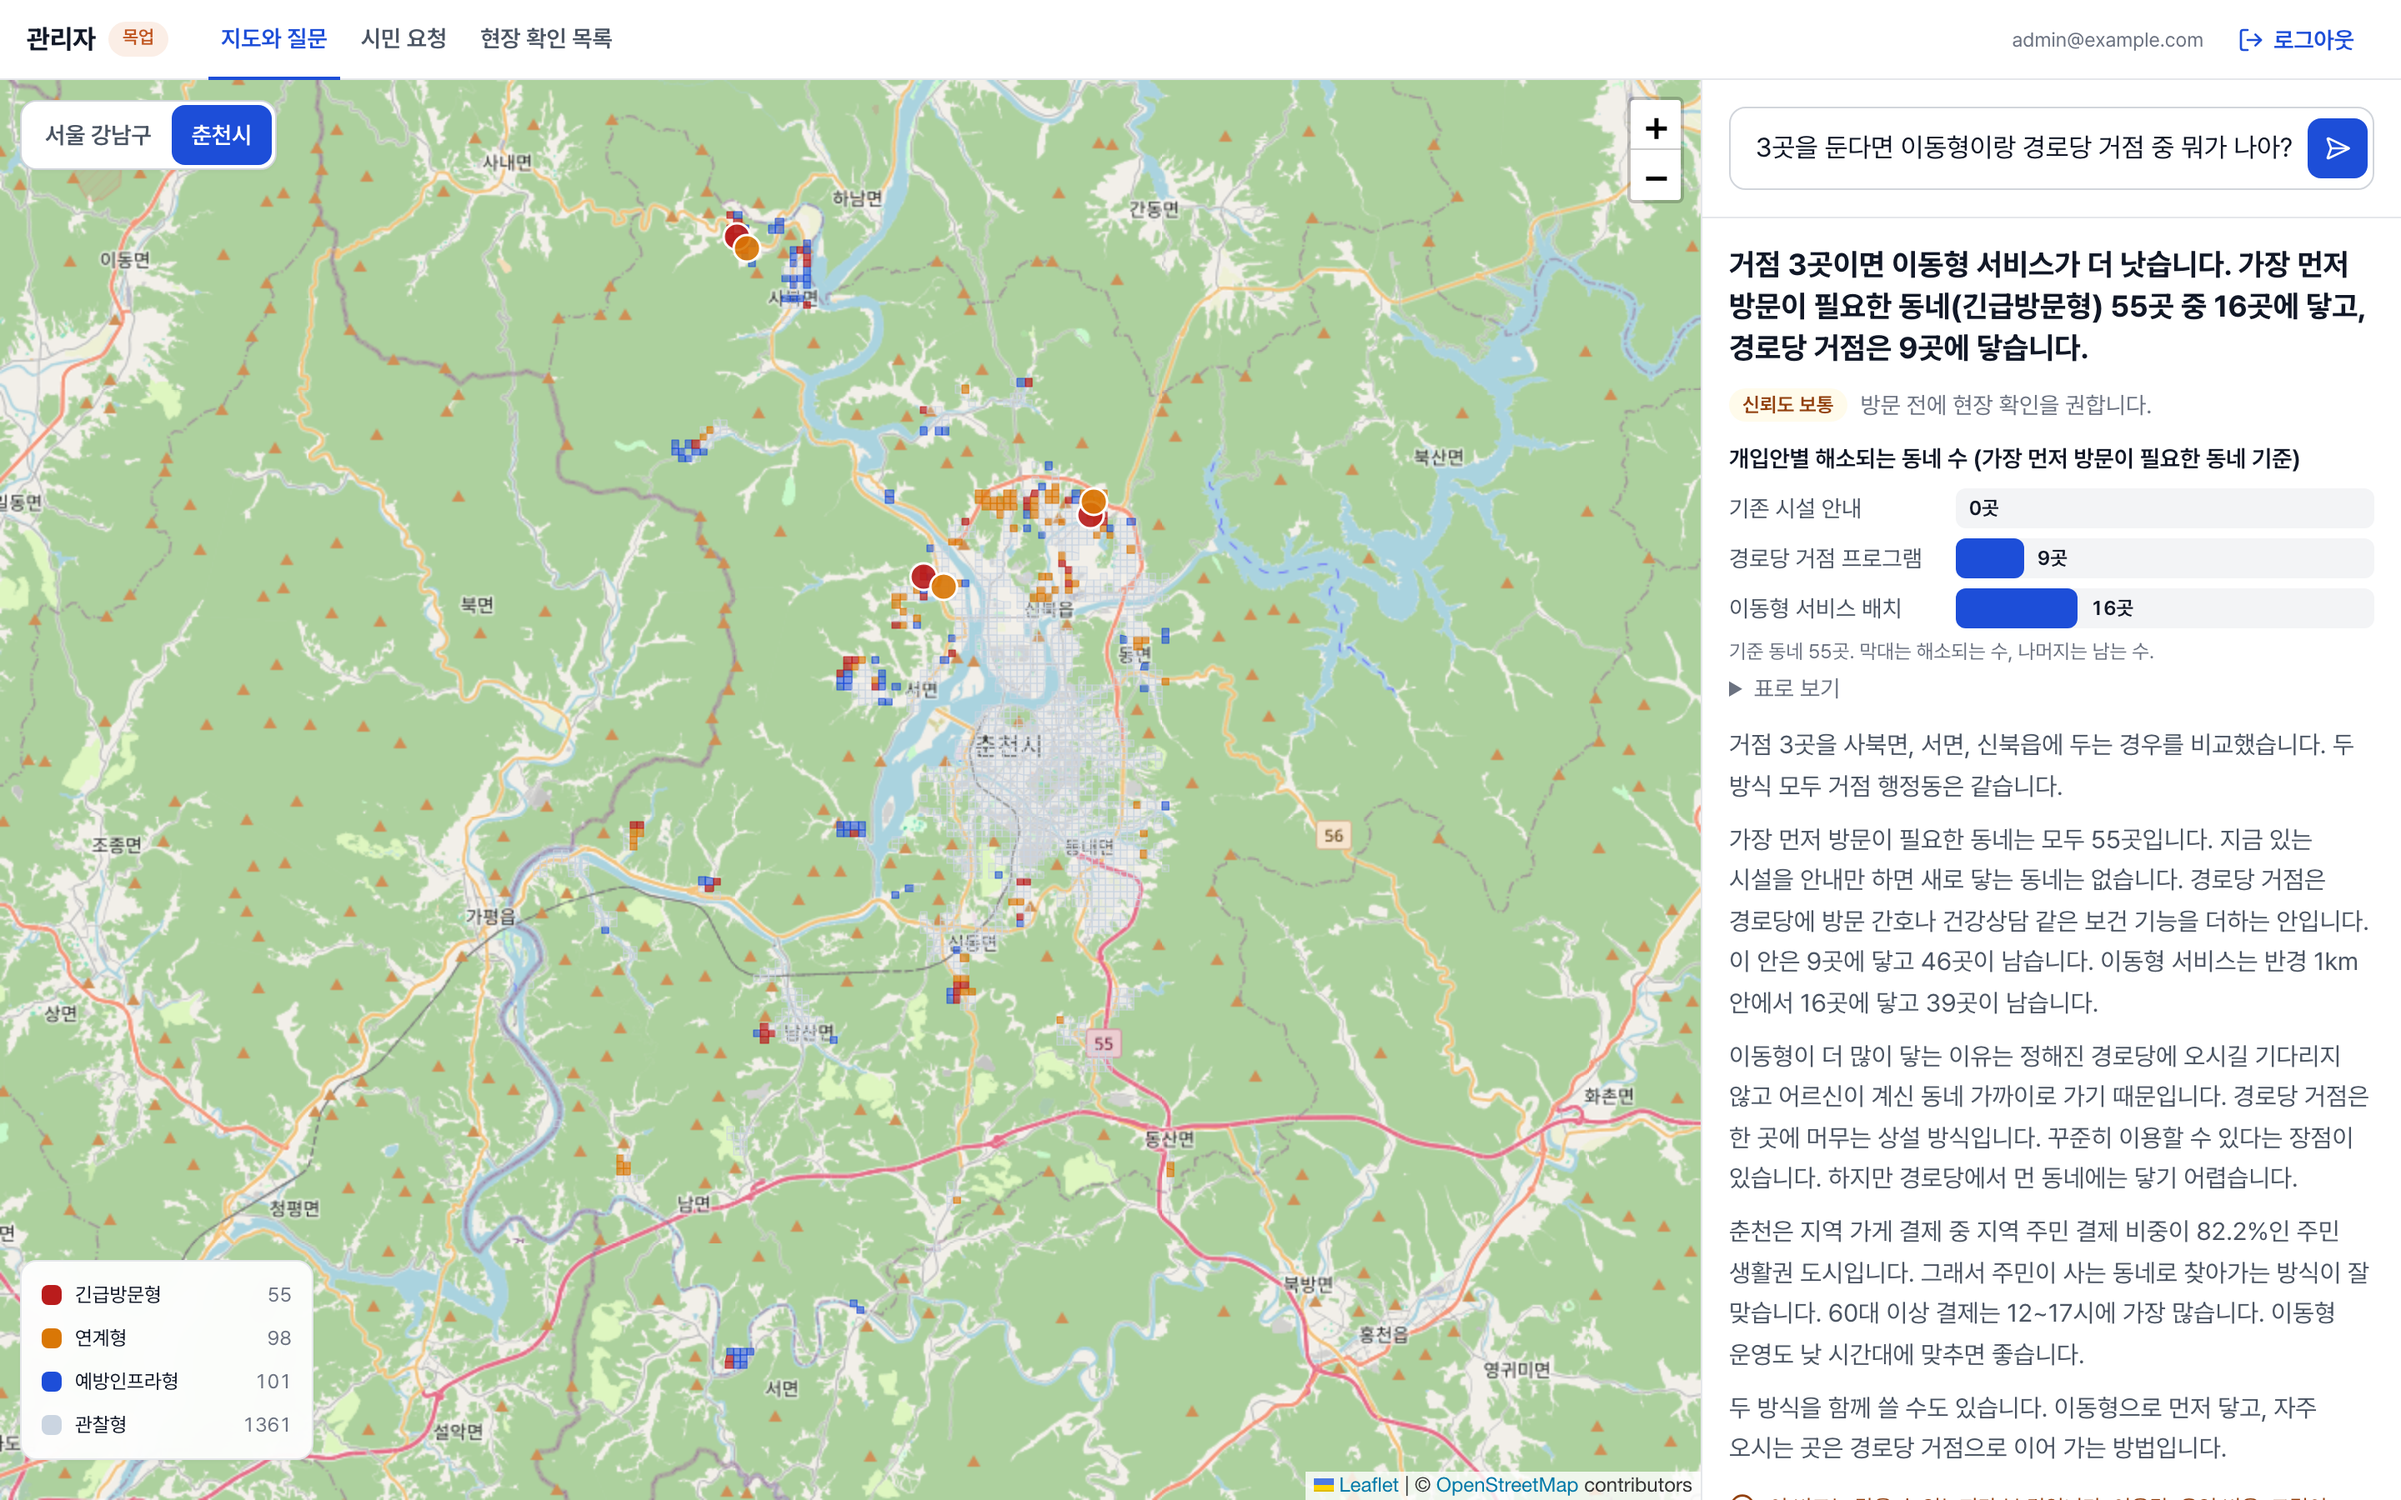
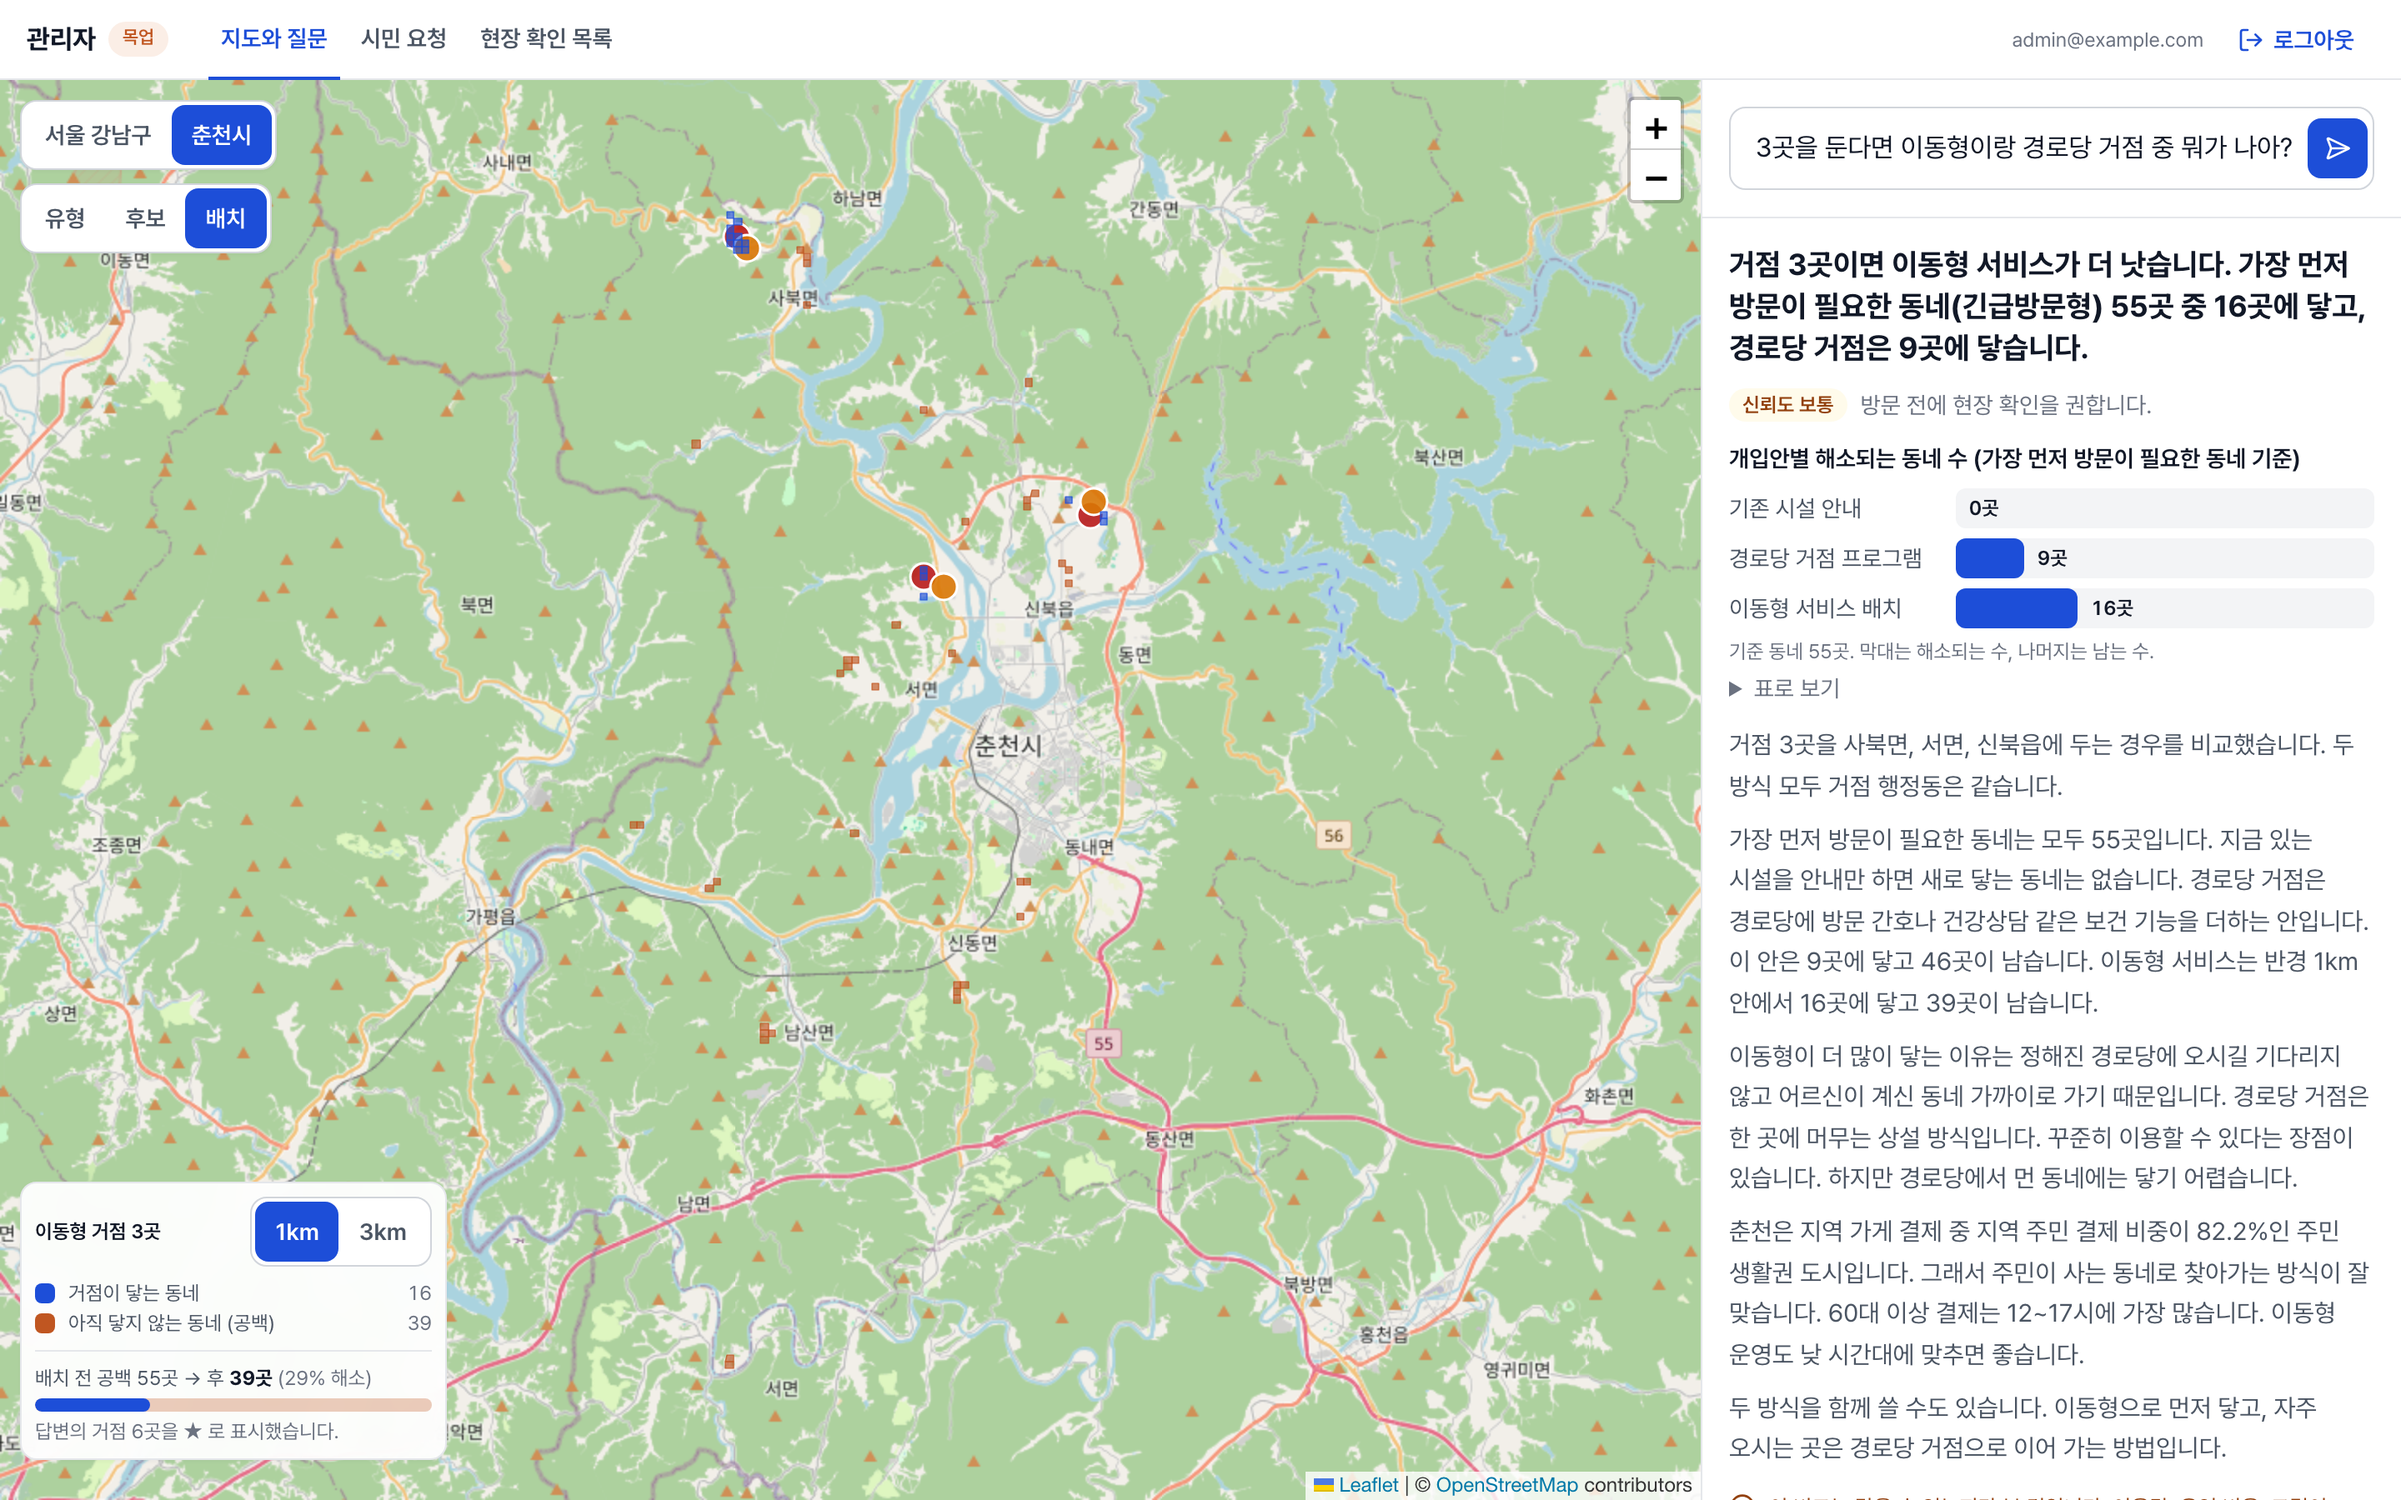
feat(frontend): 관리자 배치 지도 거점 마커·집계, 레이어 스크린샷
- 응답 sites 거점은 ★ 마커 + '닿는 N곳' 라벨, interventions 는 옵션별 색 점. 팝업에 facility_name 표시
- 배치 전후 비교: GeoJSON covered 집계로 '배치 전 공백 N → 후 M (해소율)' 막대
- Playwright: 강남·춘천 × 유형/후보/배치 6장 + 응답 상태 2장을 design/ 에 저장, README 레이어 표

diff --git a/frontend/src/map/PointsLayer.tsx b/frontend/src/map/PointsLayer.tsx
@@ -1,8 +1,8 @@
-import { CircleMarker, Marker, Polyline, Tooltip } from 'react-leaflet'
+import { CircleMarker, Marker, Polyline, Popup, Tooltip } from 'react-leaflet'
 import type { FacilityCollection } from '@/types/geo'
 import type { FacilitiesPoint, MapFragmentData, MapPoint } from '@/types/display'
-import { CHECK_LEVEL_COLOR, HIGHLIGHT_STROKE, MONTHS_COLOR, OPTION_COLORS, SELECTED_STROKE, SITE_COLOR, TYPE_COLOR } from './colors'
-import { badgeHtml, divIcon, facilityIcon, formatDistance, groupOfKind, homeIcon, inServiceArea, numberIcon } from './markers'
+import { CHECK_LEVEL_COLOR, HIGHLIGHT_STROKE, MONTHS_COLOR, OPTION_COLORS, SELECTED_STROKE, TYPE_COLOR } from './colors'
+import { badgeHtml, divIcon, facilityIcon, formatDistance, groupOfKind, homeIcon, inServiceArea, numberIcon, siteIcon } from './markers'
 
 export interface PointsLayerProps {
   map: MapFragmentData
@@ -58,10 +58,16 @@ export function PointsLayer({ map, selectedId, onSelect }: PointsLayerProps) {
       return (
         <>
           {map.points.map((p) => (
-            <Marker key={p.id} position={[p.lat, p.lon]} icon={divIcon(badgeHtml('★', SITE_COLOR, stroke(p), 30, 14), 30)} eventHandlers={click(p)}>
-              <Tooltip direction="top">
+            <Marker key={p.id} position={[p.lat, p.lon]} icon={siteIcon(p.covers, stroke(p))} eventHandlers={click(p)} zIndexOffset={400}>
+              <Tooltip direction="top" offset={[0, -14]}>
                 <b>{p.emd_name}</b> 거점 · 닿는 동네 {p.covers}곳
               </Tooltip>
+              <Popup closeButton={false}>
+                <div className="text-[13px]">
+                  <p className="font-bold">{p.emd_name} 거점</p>
+                  <p>닿는 동네 {p.covers}곳</p>
+                </div>
+              </Popup>
             </Marker>
           ))}
         </>
@@ -81,11 +87,16 @@ export function PointsLayer({ map, selectedId, onSelect }: PointsLayerProps) {
                 eventHandlers={click(p)}
               >
                 <Tooltip direction="top">
-                  <b>{p.name}</b>
-                  <br />
-                  {p.option}
-                  {p.facility_name && <> · {p.facility_name}</>}
+                  <b>{p.name}</b> · {p.option}
                 </Tooltip>
+                <Popup closeButton={false}>
+                  <div className="text-[13px]">
+                    <p className="font-bold">{p.name}</p>
+                    <p>{p.option}</p>
+                    <p className="text-ink-3">{p.emd_name}</p>
+                    {p.facility_name && <p>기존 시설: {p.facility_name}</p>}
+                  </div>
+                </Popup>
               </CircleMarker>
             )
           })}

diff --git a/frontend/src/map/markers.ts b/frontend/src/map/markers.ts
@@ -61,3 +61,14 @@ export function homeIcon(label = '우리 집') {
     iconAnchor: [30, 11],
   })
 }
+
+/** 거점 마커: ★ 배지 옆에 '닿는 N곳' 작은 라벨 */
+export function siteIcon(covers: number | null | undefined, border = '#fff') {
+  const label = covers !== null && covers !== undefined ? `<span style="margin-left:4px;padding:2px 6px;border-radius:9999px;background:#fff;border:1px solid #c7d7fe;color:#1d4ed8;font-size:11px;font-weight:700;white-space:nowrap;box-shadow:0 1px 2px rgba(0,0,0,.15)">닿는 ${covers}곳</span>` : ''
+  return L.divIcon({
+    html: `<div style="display:flex;align-items:center">${badgeHtml('★', '#1d4ed8', border, 30, 14)}${label}</div>`,
+    className: 'bitamin-marker',
+    iconSize: [110, 30],
+    iconAnchor: [15, 15],
+  })
+}

diff --git a/frontend/src/map/index.ts b/frontend/src/map/index.ts
@@ -1,7 +1,7 @@
 export { BaseMap } from './BaseMap'
 export { GridLayer } from './GridLayer'
 export { PointsLayer, FacilitiesGeoLayer, NumberedPointsLayer } from './PointsLayer'
-export { facilityIcon, formatDistance, inServiceArea, groupOfKind, numberIcon, numberColor, homeIcon } from './markers'
+export { facilityIcon, formatDistance, inServiceArea, groupOfKind, numberIcon, numberColor, homeIcon, siteIcon } from './markers'
 export { boundsOfPoints, regionBounds } from './bounds'
 export { useTypesLayer, useCandidatesLayer, useSimLayer, useFacilitiesLayer } from './useGeoLayer'
 export * from './colors'

diff --git a/frontend/README.md b/frontend/README.md
@@ -101,7 +101,7 @@ scripts/          sync-geo.sh
 | 경로 | 역할 | 화면 |
 | --- | --- | --- |
 | `/login` | 공개 | 로그인 |
-| `/admin` | admin | 동네 유형 지도(GeoJSON 전체 색칠) + 질문창 + 응답 조각, 현장 목록 보내기 |
+| `/admin` | admin | 지도(유형 / 후보 / 배치 레이어 전환, 지역 공통) + 질문창 + 응답 조각, 현장 목록 보내기 |
 | `/admin/requests` | admin | 시민 요청 목록(승인·반려·완료), 수요 신호·현장 피드백 집계 |
 | `/admin/field-list` | admin | 현장 확인 목록 생성·보내기·복사·내려받기 |
 | `/citizen` | citizen | 위치 한 줄(시트로 변경), 질문 말풍선, 답변, 번호 지도, 장소 카드 3개, 이번 주, 도움 패널, 공유·전화. 하단 고정 질문 바(마이크) |
@@ -131,6 +131,16 @@ scripts/          sync-geo.sh
 - 질문 응답의 `display.map.points` 는 칸 중심점이다. 관리자 유형 지도는 서버 GeoJSON 전체를 기준으로 색칠하고, 응답 points 의 `highlight` 칸만 굵은 테두리로 강조한다.
 - 시민 시설 목록은 `GET /api/v1/maps/facilities?region=...` allowlist에 포함된 시설만 표시한다. `fac_id`·`cell_id` 는 툴팁·카드에 쓰지 않고 조회 키로만 쓴다.
 - `cell_id`·`fac_id` 는 툴팁·카드에 쓰지 않고 조회 키로만 쓴다.
+
+### 관리자 지도 레이어
+
+| 레이어 | 데이터 | 색 | 범례·팝업 |
+| --- | --- | --- | --- |
+| 유형 | `GET /admin/maps/types` (`types_{지역}`) | 4유형 | 유형 범례(필터), 현장 확인 제외 보기 |
+| 후보 | `GET /admin/maps/candidates` (`candidates_{지역}`) | `persistent_months` 4/5/6 → 연한→진한 주황, `res_status` 용도미상은 점선 테두리 | 개월별 수, 격자 팝업(동네·지속 개월·거주 상태) |
+| 배치 | `GET /admin/maps/placements` (`sim_{지역}_k3_r{1000\|3000}`) | `covered` 1 파랑 / 0 주황 | 반경 1km·3km 전환, 커버 집계(배치 전 공백 → 후), 응답 거점 ★ + '닿는 N곳' 라벨 |
+
+레이어를 바꿔도 지도 위치·줌은 유지되고(범위는 지역이 바뀔 때만 맞춤), 질문 응답의 레이어(candidates → 후보, sites·interventions → 배치)에 맞춰 자동으로 전환된다. 목업 모드는 `public/geo` 파일을, 실제 모드는 지도 API 를 읽는다.
 
 ## 지킬 것 (agent/README.md 7절, engine/지도_규격.md)
 
